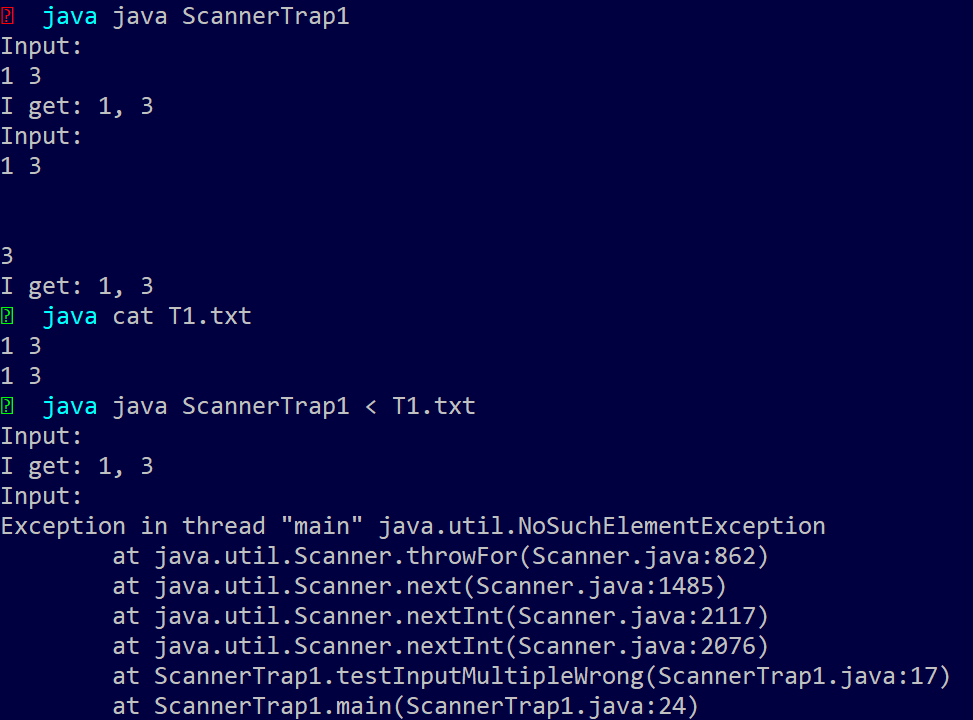
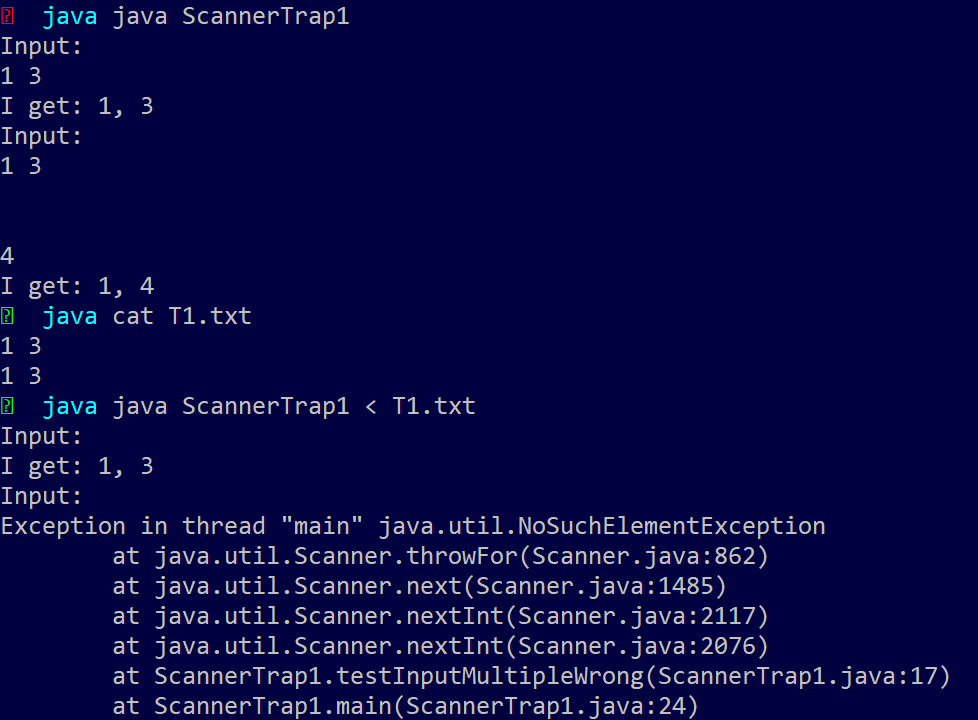
update

diff --git a/_posts/2018-04-17-java-scanner-traps.md b/_posts/2018-04-17-java-scanner-traps.md
@@ -4,10 +4,11 @@ title: Java 中 Scanner 使用的一些坑
 key: 2018-04-17-java-scanner-traps
 
 ---       
-在 Java 中, 我们经常使用 ```Scanner``` 类来获取用户输入.
-
+本文是为 2018 春季 Java A 课程的同学们所写的教程, 会结合一些在课堂中碰到的案例进行说明.    
+在 Java 中, 我们经常使用 ```Scanner``` 类来获取用户输入, 但是有些时候会遇到一些奇怪的问题. 本文整理了一下在批改作业中遇到的例子和同学们的疑问, 希望可以帮助同学们加深对 Scanner 背后机制的理解.    
 <!--more-->
 ## 坑1: 为什么我的输入只有行内开始的一个数, 后面的数都不见了？
+下面的代码中, ```testInputMultiple()``` 是我们从用户输入获取两个整数的常用做法. 而```testInputMultipleWrong()``` 函数是在批改作业过程中发现的一些同学的写法. 这种写法可能在某些情况下不会出现问题 (如果每输入一个数字就按下回车的话), 但在同一行内连续按空格分割输入的时候, 就会出现一些问题.
 ```java
 import java.util.Scanner;
 public class ScannerTrap1{
@@ -36,10 +37,40 @@ public class ScannerTrap1{
     }
 }
 ```
-这通常是由于重复创建了多个 Scanner 导致的. Scanner 被创建时, 会 
+运行, 输入一些数据测试, 会发现在执行到第二个函数时, 即使输入了数字, 程序也不会结束, 直到我们另外输入一个数字并按回车. 但第二个数字竟然不是第一行我们输入的数字, **why?**    
+切换成重定向测试一下, 这次程序直接抛出了 ```NoSuchElementException```.    
+
+![](\content\images\2018\java_scanner\console_trap1.png)
+
+观察两个函数的差别, 仅仅是因为第二个函数重复创建了多个 Scanner ,导致了错误的产生. 原因在于 Scanner 的 ```nextInt()``` 函数被调用时, 会从标准输入的缓冲区内读取数据并存入自己的存储区域, 然后提取出这一行中的第一个整数, 并作为函数的返回值返回.     
+下面的图表示了我们使用 Scanner 的一般过程: ```Scanner``` 对象从 ```System.in``` 流中读取数据, 并放入自己的缓冲区, 等待被其他代码调用返回.    
 ![](\content\images\2018\java_scanner\scanner_fig1.png)
+
+ 在上面的示例中, 由于我们使用了两个 ```Scanner``` 对象读取数据, ```1 3``` 一行实际上被 ```s1``` 全部取走, 并留在 ```s1``` 的缓冲区内. 因此在接受用户输入的时候, ```4``` 的一行才是真正被 ```s2``` 所接收到的数据. 在重定向之时, 因为输入在两行之后已经结束, 因此 ```s2``` 的 ```nextInt()``` 函数无法读取任何数据, 就会产生 ```NoSuchElementException``` 异常.    
+
 ![](\content\images\2018\java_scanner\scanner_fig2.png)
+
+解决方案: 只用一个 Scanner 对象接收标准输入, 不要重复创建.    
 ## 坑2: 为什么只关闭了一个 Scanner, 其余的 Scanner 都不能用了?
+```java
+import java.util.Scanner;
+public class ScannerTrap2{
+    public static void main(String args[]){
+        int n=0;
+        Scanner s1=new Scanner(System.in);
+        Scanner s2=new Scanner(System.in);
+        System.out.println("Input for s1:");
+        n=s1.nextInt();
+        System.out.printf("Echo: %d\n",n);
+        s1.close();
+        System.out.println("Input for s2:");
+        n=s2.nextInt();
+        System.out.printf("Echo: %d\n",n);
+        s2.close();
+    }
+}
+```
+![](\content\images\2018\java_scanner\console_trap2.png)
 ![](\content\images\2018\java_scanner\scanner_fig3.png)
 ![](\content\images\2018\java_scanner\scanner_fig4.png)
 ## 坑3: 为什么没有关闭 Scanner, 但新的 Scanner 也会报错?
@@ -60,11 +91,7 @@ public class Main{
     }
 }
 ```
-
-```text
-This is test file line 1
-This is test file line 2
-```
+![](\content\images\2018\java_scanner\console_trap3.png)
 
 
 
